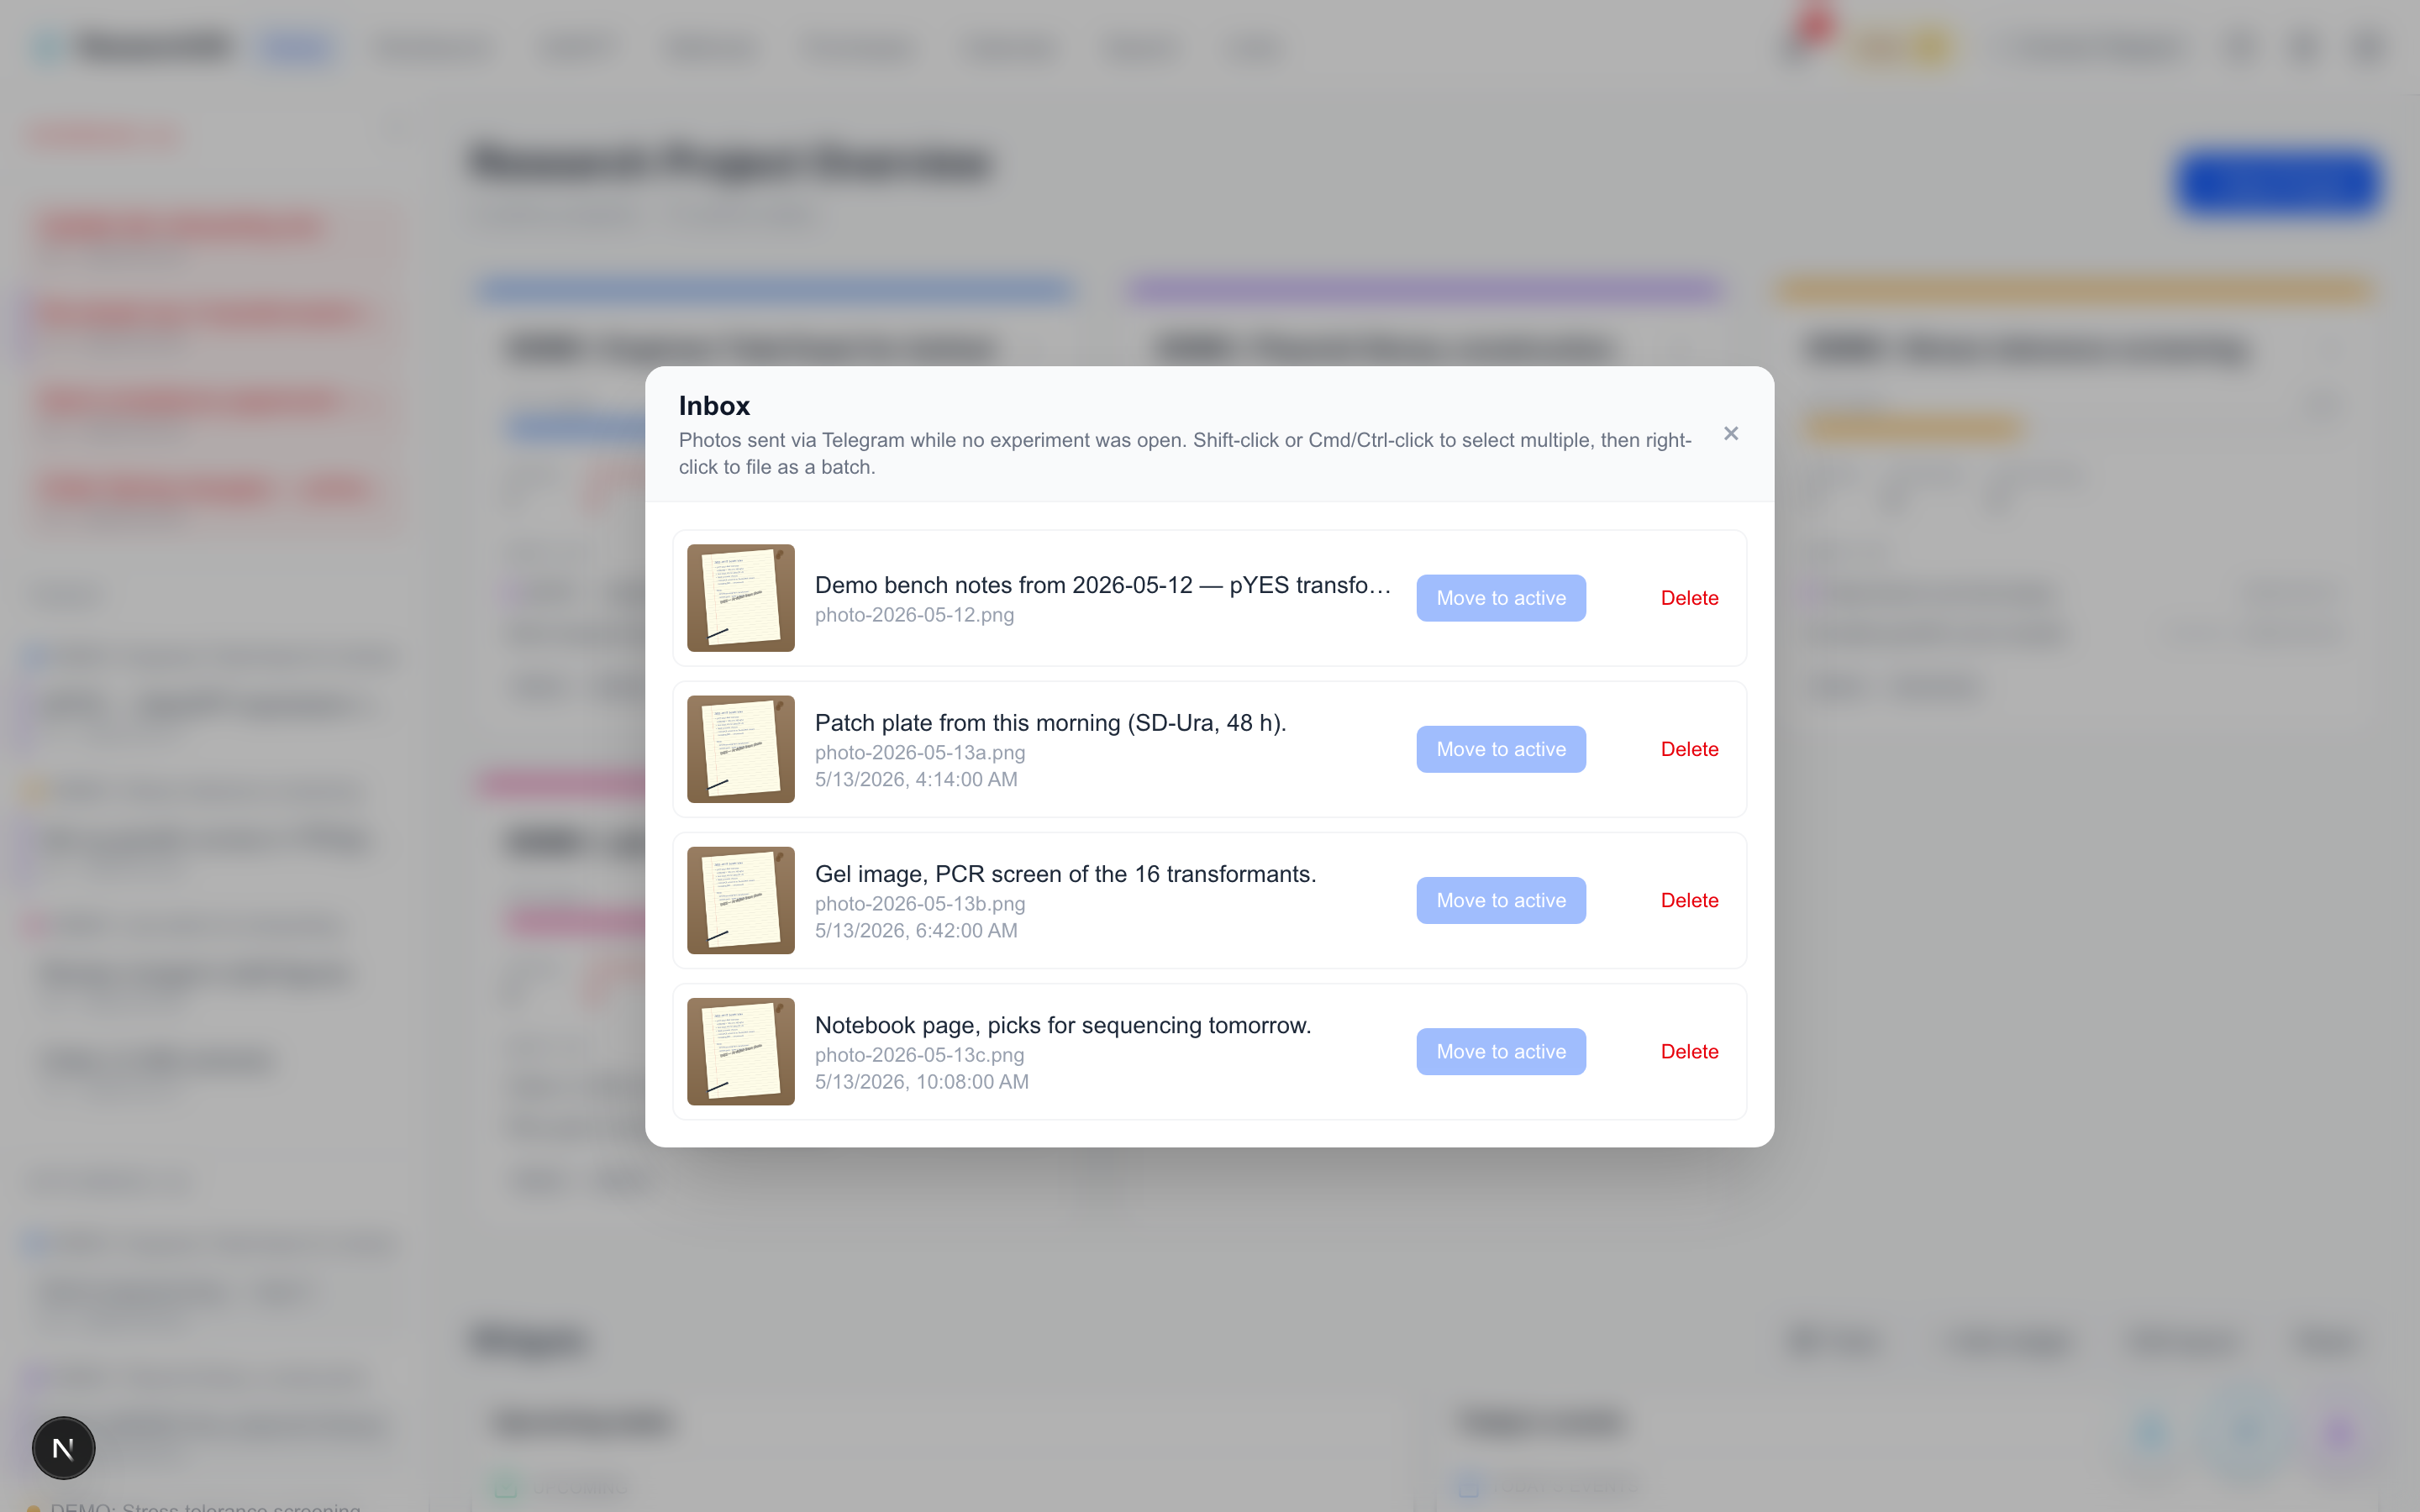
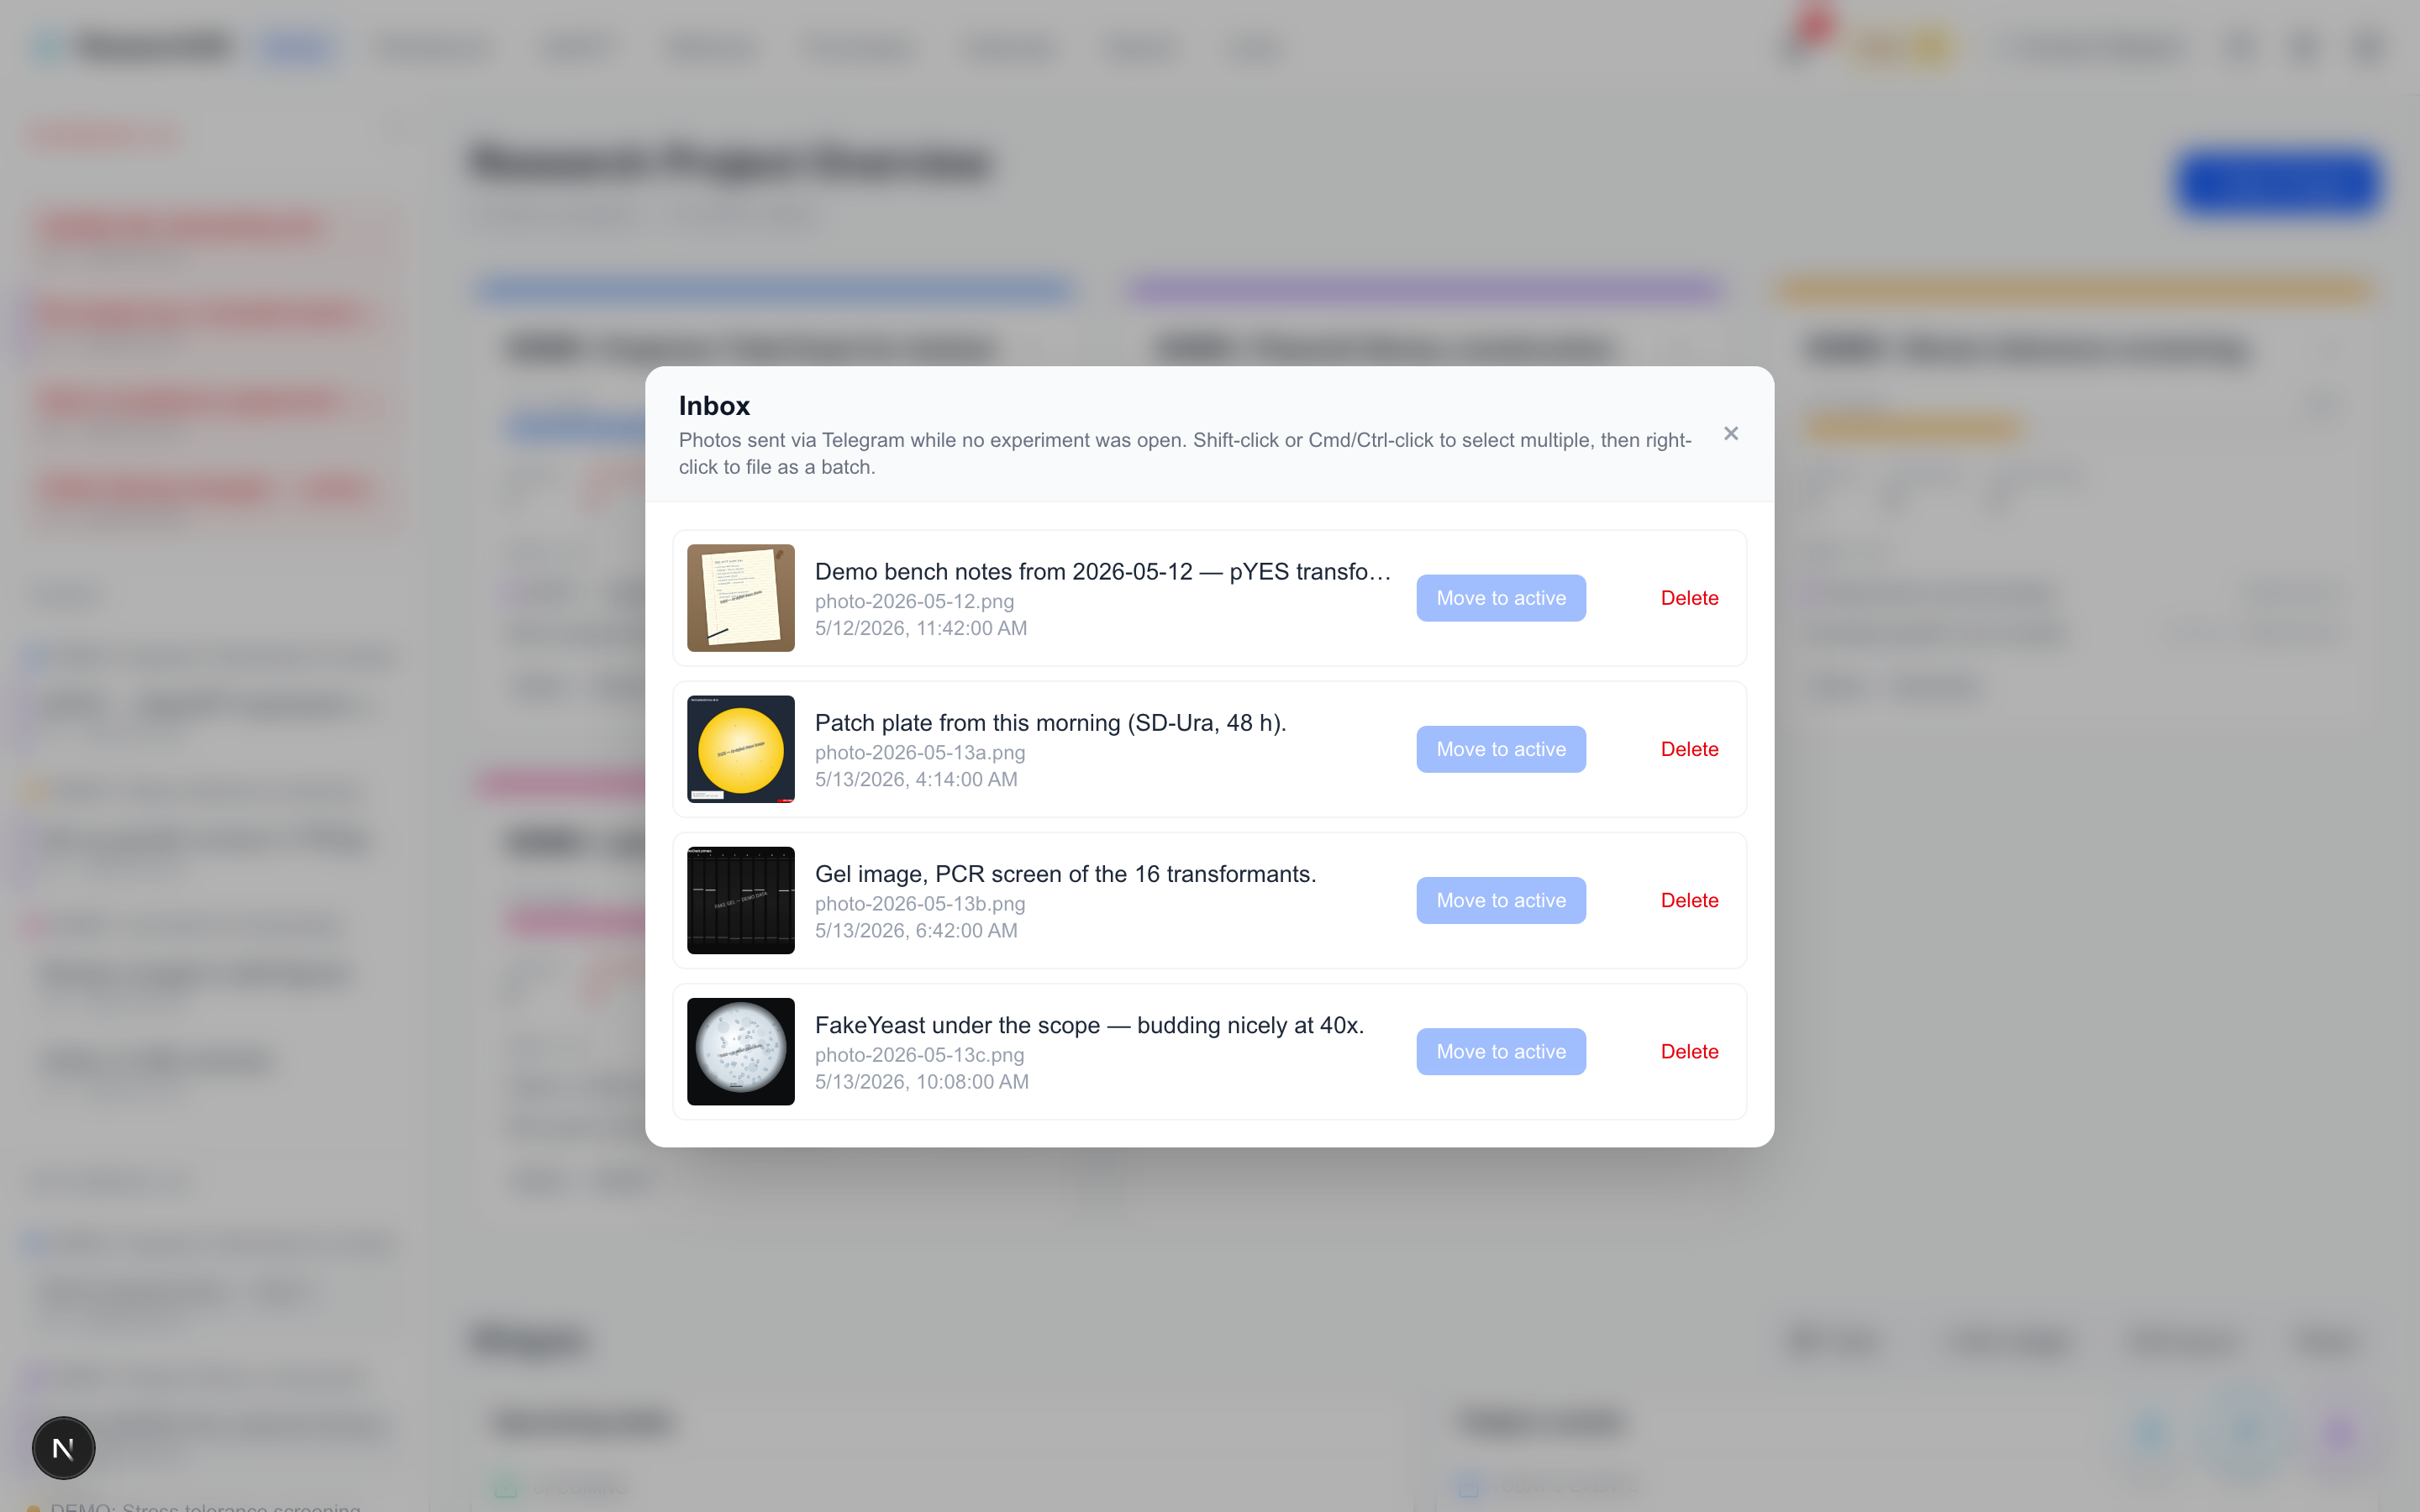
Demo inbox: four distinct Telegram photos instead of one repeated image
Per Grant: the Telegram inbox showed the same fake image on all four rows,
which undercut the "snap different things from the bench" pitch. Now the
four rows are genuinely different shots a researcher would fire off from a
phone: handwritten bench notes, an agar patch plate, an agarose gel, and a
field down the microscope.

- generate-demo-images.mjs: new drawMicroscopeField (circular bright-field
  view, budding yeast, vignette, scale bar, 40x label) and wiring that
  emits four inbox photos (12 = bench notes, 13a = plate, 13b = gel,
  13c = microscope) each with its own sidecar.
- Sidecars now use receivedAt (camelCase, the field InboxPanel renders)
  and source "telegram", so every row shows a timestamp. The first row
  previously had none because the old sidecar used received_at.
- wiki-capture-mock.ts: fetch the four real on-disk PNGs + sidecars instead
  of cloning one PNG for every alias row. Dropped the alias-cloning block.
- Regenerated the demo images and demo-lab.zip; re-captured telegram-inbox
  and telegram-inbox-multiselect. Verified the inbox shows four distinct
  thumbnails with timestamps.

landing-page manager

Changed region(s): [[0.2812, 0.56, 0.5625, 0.7467], [0.3438, 0.3733, 0.5625, 0.4356], [0.2812, 0.4356, 0.3438, 0.5289]]

diff --git a/frontend/src/lib/file-system/wiki-capture-mock.ts b/frontend/src/lib/file-system/wiki-capture-mock.ts
@@ -42,6 +42,9 @@ import { rebaseDemoDates, isDemoLab } from "../demo/rebase";
  *  PNGs that aren't markdown-referenced (e.g. the Telegram inbox photo). */
 const DEMO_PNG_PATHS = [
   "users/alex/inbox/Images/photo-2026-05-12.png",
+  "users/alex/inbox/Images/photo-2026-05-13a.png",
+  "users/alex/inbox/Images/photo-2026-05-13b.png",
+  "users/alex/inbox/Images/photo-2026-05-13c.png",
 ];
 
 /** Markdown method bodies. The JSON fixtures point at these via `source_path`
@@ -62,52 +65,18 @@ const DEMO_METHOD_MD_PATHS = [
   "users/morgan/methods/2.md",
 ];
 
-/** JSON sidecars that live alongside the inbox PNG (caption / sender /
- *  timestamp). Loaded into the `files` map so the inbox panel renders
- *  the metadata next to each card. */
+/** JSON sidecars that live alongside the inbox PNGs (caption / sender /
+ *  timestamp). Loaded into the `files` map so the inbox panel renders the
+ *  metadata next to each card. One per inbox photo above — each is a real
+ *  on-disk file written by `scripts/generate-demo-images.mjs`, so the four
+ *  inbox rows show four distinct images (bench notes, patch plate, gel,
+ *  microscope) with their own captions + timestamps. (No more reusing a
+ *  single PNG for every row — fixed 2026-05-29.) */
 const DEMO_JSON_SIDECAR_PATHS = [
   "users/alex/inbox/Images/photo-2026-05-12.png.json",
-];
-
-/** Extra inbox rows seeded for the multi-select capture
- *  (`telegram-inbox-multiselect.png`). The PNG bytes are reused from the
- *  existing `photo-2026-05-12.png` entry above so we don't have to ship
- *  more binary fixtures — what the capture needs is three+ visible rows
- *  with distinct captions and timestamps, not three unique images.
- *  Sidecars are inlined here (not loaded from `/demo-data/`) because there
- *  is no on-disk counterpart for these alias rows. */
-const INBOX_ALIAS_SOURCE = "users/alex/inbox/Images/photo-2026-05-12.png";
-const INBOX_ALIAS_ROWS: Array<{ name: string; sidecar: Record<string, unknown> }> = [
-  {
-    name: "photo-2026-05-13a.png",
-    sidecar: {
-      caption: "Patch plate from this morning (SD-Ura, 48 h).",
-      sender: "alex",
-      receivedAt: "2026-05-13T09:14:00Z",
-      source: "telegram",
-      is_demo: true,
-    },
-  },
-  {
-    name: "photo-2026-05-13b.png",
-    sidecar: {
-      caption: "Gel image, PCR screen of the 16 transformants.",
-      sender: "alex",
-      receivedAt: "2026-05-13T11:42:00Z",
-      source: "telegram",
-      is_demo: true,
-    },
-  },
-  {
-    name: "photo-2026-05-13c.png",
-    sidecar: {
-      caption: "Notebook page, picks for sequencing tomorrow.",
-      sender: "alex",
-      receivedAt: "2026-05-13T15:08:00Z",
-      source: "telegram",
-      is_demo: true,
-    },
-  },
+  "users/alex/inbox/Images/photo-2026-05-13a.png.json",
+  "users/alex/inbox/Images/photo-2026-05-13b.png.json",
+  "users/alex/inbox/Images/photo-2026-05-13c.png.json",
 ];
 
 /** Demo users whose `users/<user>/results/task-<n>/notes.md` +
@@ -721,28 +690,9 @@ export async function installWikiCaptureFixture(
     }),
   );
 
-  // Seed extra inbox rows for the multi-select screenshot. Each alias
-  // reuses the source PNG's bytes (so the thumbnails render) and pairs
-  // it with an inline sidecar (caption + timestamp) so the rows look
-  // like distinct uploads in the Inbox panel.
-  {
-    const sourceBlob = blobs.get(normalizePath(INBOX_ALIAS_SOURCE));
-    if (sourceBlob) {
-      const inboxDir = "users/alex/inbox/Images";
-      for (const { name, sidecar } of INBOX_ALIAS_ROWS) {
-        const pngKey = normalizePath(`${inboxDir}/${name}`);
-        const jsonKey = normalizePath(`${inboxDir}/${name}.json`);
-        blobs.set(pngKey, sourceBlob);
-        files.set(jsonKey, sidecar);
-        addParentDirs(pngKey, dirs);
-        addParentDirs(jsonKey, dirs);
-      }
-    } else {
-      console.warn(
-        `[wiki-capture-mock] Inbox alias seed skipped: source PNG ${INBOX_ALIAS_SOURCE} not loaded.`,
-      );
-    }
-  }
+  // (The four inbox rows are now four real on-disk photos fetched via
+  // DEMO_PNG_PATHS + DEMO_JSON_SIDECAR_PATHS above, so there is no alias
+  // cloning to do here anymore.)
 
   // Pull the on-disk experiment writeups + their inline images for each
   // demo user. Two-phase per user: